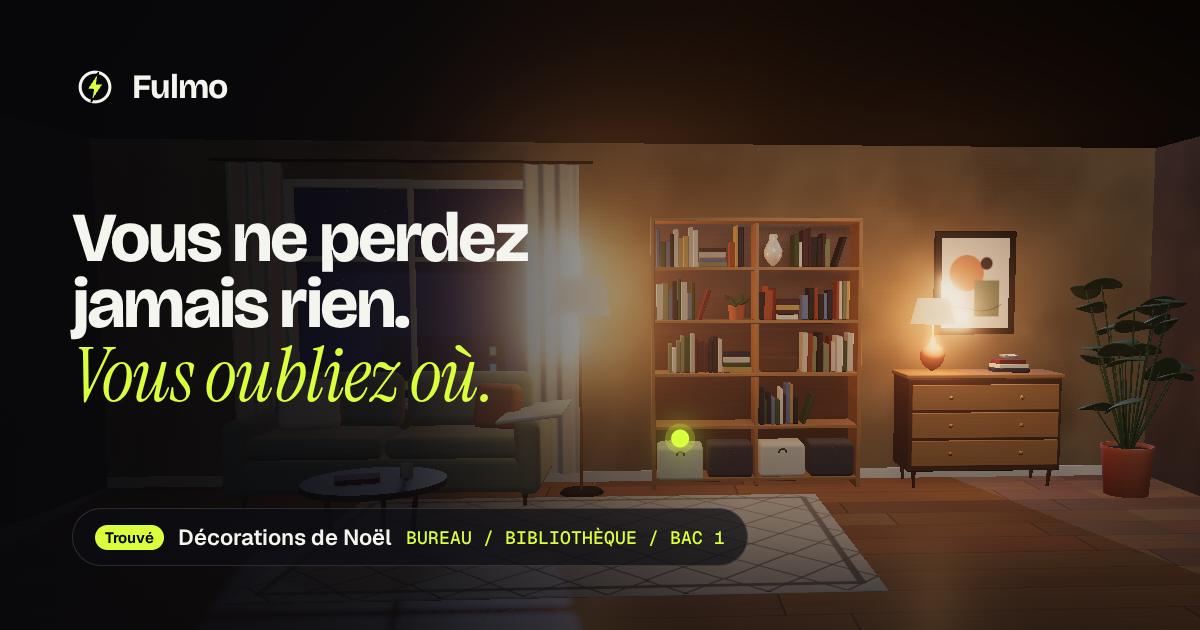
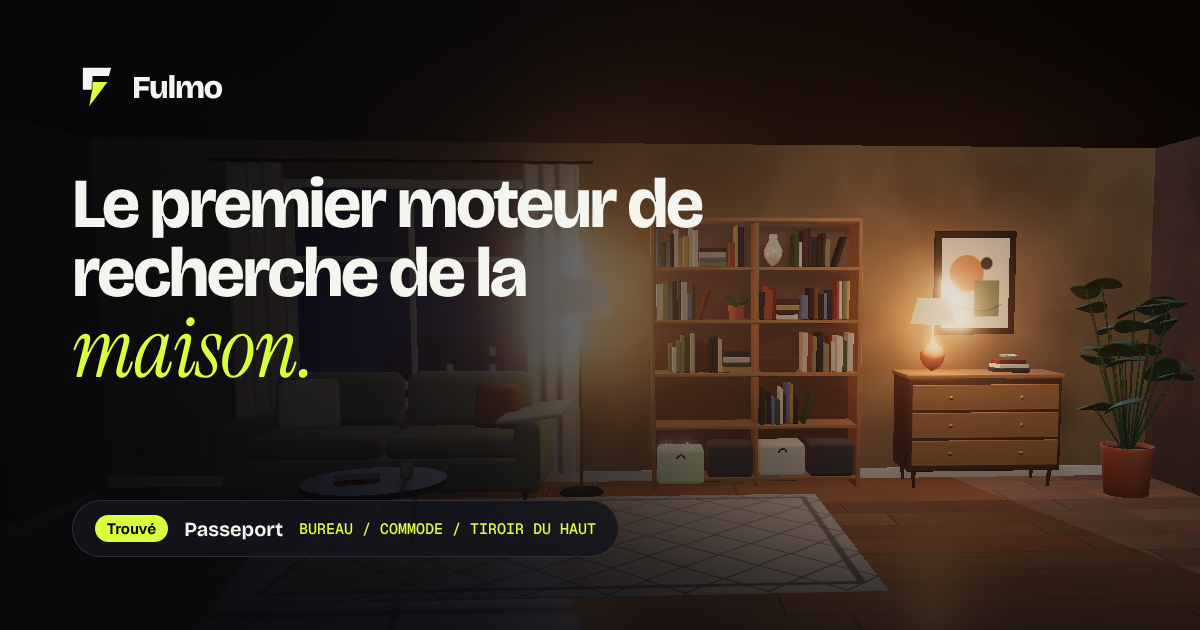
Accroche : « Le premier moteur de recherche de la maison »
Nouveau H1 et sous-titre de l'accueil, choisis par Julien, repris dans le
titre de la page, la description, les balises de partage (Open Graph,
X), llms.txt et une nouvelle image de partage (nouveau logo inclus).
Le test de référencement vérifie désormais que le H1 et le titre gardent
« moteur de recherche » et « maison ».

Claude-Session: https://claude.ai/code/session_01CWFJ4J6QFPk7ftm2qRazd2

Changed region(s): [[0.0617, 0.2111, 0.6783, 0.9349], [0.0617, 0.0905, 0.185, 0.181]]

diff --git a/index.html b/index.html
@@ -6,8 +6,8 @@
 <!-- Politique de sécurité : seul le code de ce site s'exécute. Ne pas élargir sans relire CLAUDE.md. -->
 <meta http-equiv="Content-Security-Policy" content="default-src 'self'; script-src 'self' 'sha256-Nmua6rp8tsZ32QOLCBeqSt0MMTP87I8Y/aTKwkzLZSE='; style-src 'self' 'unsafe-inline'; img-src 'self' data: blob:; font-src 'self'; connect-src 'self' blob: data:; media-src 'self' blob:; worker-src 'self' blob:; manifest-src 'self'; object-src 'none'; base-uri 'self'; form-action 'self'; upgrade-insecure-requests">
 <meta name="referrer" content="strict-origin-when-cross-origin">
-<title>Fulmo — Vous ne perdez jamais rien. Vous oubliez où.</title>
-<meta name="description" content="FULMO référence chaque objet de votre logement et vous dit où il se trouve : pièce, meuble, tiroir. Gratuit, illimité, sans balise à acheter.">
+<title>Fulmo — Le premier moteur de recherche de la maison</title>
+<meta name="description" content="Tapez le nom d'un objet : FULMO vous dit où il est rangé chez vous, pièce, meuble, tiroir. L'application pour retrouver ses objets. Gratuite, sans balise à acheter.">
 <link rel="canonical" href="https://getfulmo.com/">
 <meta name="robots" content="index, follow, max-image-preview:large">
 <meta name="theme-color" content="#07070a">
@@ -20,15 +20,15 @@
 <meta property="og:type" content="website">
 <meta property="og:locale" content="fr_FR">
 <meta property="og:site_name" content="Fulmo">
-<meta property="og:title" content="Vous ne perdez jamais rien. Vous oubliez où. — Fulmo">
-<meta property="og:description" content="FULMO référence chaque objet de votre logement et vous dit exactement où il se trouve. Pièce, meuble, tiroir. En un éclair. Gratuit et illimité.">
+<meta property="og:title" content="Fulmo, le premier moteur de recherche de la maison">
+<meta property="og:description" content="Tapez le nom d'un objet : FULMO vous dit où il est rangé. Pièce, meuble, tiroir. En un éclair. Gratuit et illimité.">
 <meta property="og:url" content="https://getfulmo.com/">
 <meta property="og:image" content="https://getfulmo.com/assets/img/og-image.png">
 <meta property="og:image:width" content="1200">
 <meta property="og:image:height" content="630">
-<meta property="og:image:alt" content="Une pièce de nuit en 3D ; une épingle verte indique « Décorations de Noël · Bureau / Bibliothèque / Bac 1 ».">
+<meta property="og:image:alt" content="Logo Fulmo et titre « Le premier moteur de recherche de la maison » sur une pièce de nuit en 3D ; une étiquette indique « Passeport · Bureau / Commode / Tiroir du haut ».">
 <meta name="twitter:card" content="summary_large_image">
-<meta name="twitter:title" content="Vous ne perdez jamais rien. Vous oubliez où. — Fulmo">
+<meta name="twitter:title" content="Fulmo, le premier moteur de recherche de la maison">
 <meta name="twitter:description" content="Pièce, meuble, tiroir : FULMO vous dit où est chaque objet de votre logement. Gratuit, sans balise à acheter.">
 <meta name="twitter:image" content="https://getfulmo.com/assets/img/og-image.png">
 
@@ -339,8 +339,8 @@
     <div class="cursor-glow" aria-hidden="true"></div>
 
     <div class="hero-content wrap">
-      <h1 id="hero-title" class="hero-title">Vous ne perdez jamais rien. <em>Vous oubliez où.</em></h1>
-      <p class="hero-lede">FULMO référence chaque objet de votre logement et vous dit exactement où il se trouve. Pièce, meuble, tiroir. En un éclair.</p>
+      <h1 id="hero-title" class="hero-title">Le premier moteur de recherche de la <em>maison.</em></h1>
+      <p class="hero-lede">Tapez le nom d'un objet : FULMO vous dit où il est rangé. Pièce, meuble, tiroir. En un éclair.</p>
 
       <form class="hero-search" role="search" action="#" autocomplete="off">
         <label class="sr" for="hero-q">Cherchez un objet dans la maison de démonstration</label>

diff --git a/tests/landing.spec.js b/tests/landing.spec.js
@@ -6,7 +6,10 @@ test.describe("Page d'accueil", () => {
   test("référencement : un seul H1, titre, description, canonique, données structurées", async ({ page }) => {
     await expect(page.locator("h1")).toHaveCount(1);
     await expect(page.locator("h1")).toBeVisible();
-    await expect(page).toHaveTitle(/Fulmo/);
+    // Mots-clés visés par le référencement : ils doivent rester dans le H1 et le titre.
+    await expect(page.locator("h1")).toContainText("moteur de recherche");
+    await expect(page.locator("h1")).toContainText("maison");
+    await expect(page).toHaveTitle(/Fulmo.*moteur de recherche/);
     await expect(page.locator('meta[name="description"]')).toHaveAttribute("content", /.{50,}/);
     await expect(page.locator('link[rel="canonical"]')).toHaveAttribute("href", "https://getfulmo.com/");
     const blocks = await page.locator('script[type="application/ld+json"]').allTextContents();
